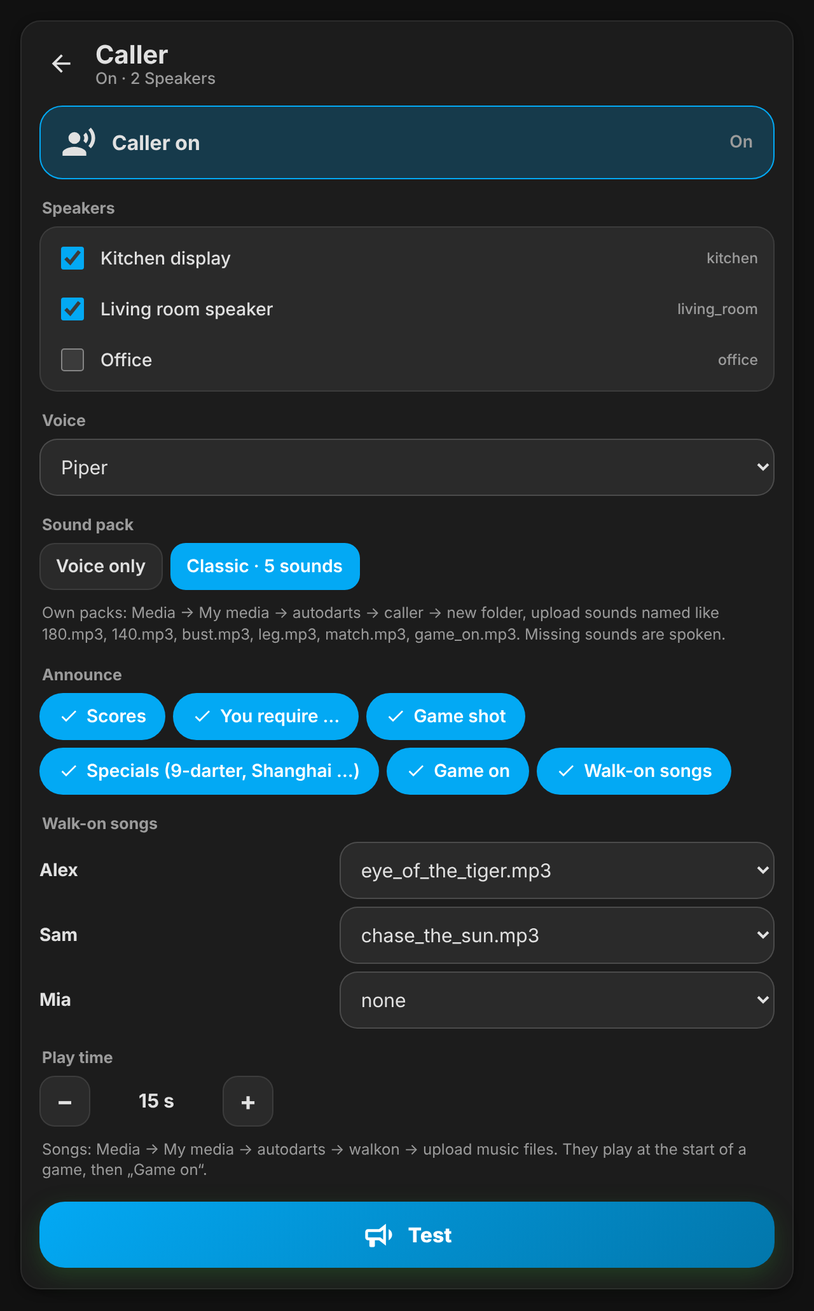
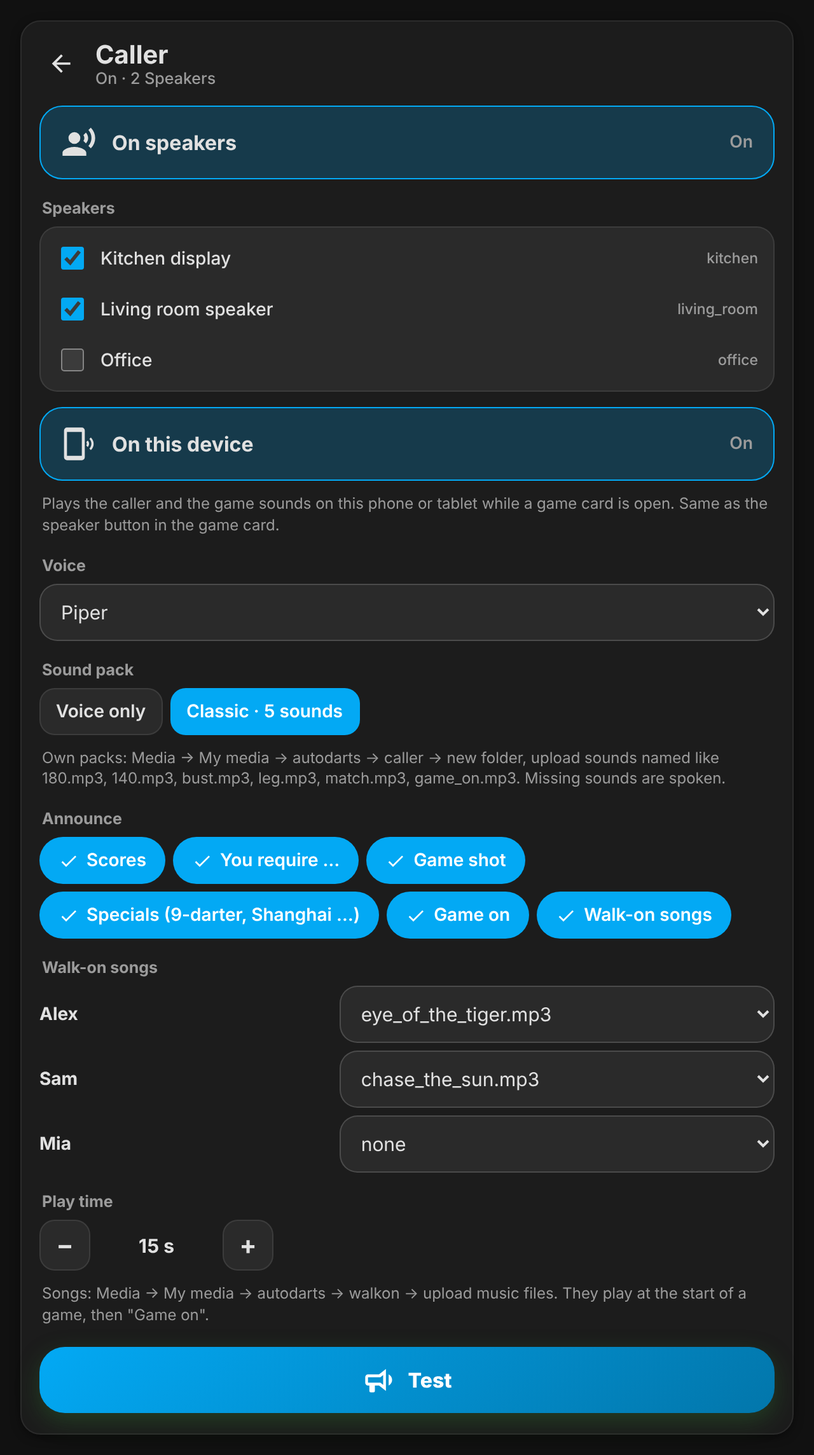
1.18.0: caller on the phone (speakers, phone or both)
Claude-Session: https://claude.ai/code/session_015s6FHMz7o3ZoDDgXQvdmwS

Changed region(s): [[0.0312, 0.031, 0.9688, 0.838], [0.0312, 0.838, 0.9375, 0.9932], [0.9375, 0.6828, 0.9688, 0.7139]]

diff --git a/custom_components/autodarts/frontend/autodarts-cards.js b/custom_components/autodarts/frontend/autodarts-cards.js
@@ -160,6 +160,9 @@
   // keypad (1.17)
   Object.assign(TEXTE.en, { kp_keys: 'Keys', kp_sum: 'Total', kp_board: 'Board', kp_cam: 'Camera', kp_miss: 'Miss', kp_sum_hint: 'points of the visit' });
   Object.assign(TEXTE.de, { kp_keys: 'Tasten', kp_sum: 'Summe', kp_board: 'Scheibe', kp_cam: 'Kamera', kp_miss: 'Daneben', kp_sum_hint: 'Punkte der Aufnahme' });
+  // caller on this device (1.18)
+  Object.assign(TEXTE.en, { caller_run: 'On speakers', phone_run: 'On this device', phone_hint: 'Plays the caller and the game sounds on this phone or tablet while a game card is open. Same as the speaker button in the game card.', d_caller: 'Announces scores, checkouts and walk-on songs on your speakers and phones' });
+  Object.assign(TEXTE.de, { caller_run: 'Über Lautsprecher', phone_run: 'Auf diesem Gerät', phone_hint: 'Spielt Ansager und Spieltöne auf diesem Handy oder Tablet, solange eine Spielkarte offen ist. Wie der Lautsprecher-Knopf in der Spielkarte.', d_caller: 'Sagt Punkte, Checkouts und Einlaufmusik über Lautsprecher und Handys an' });
   // aim map (1.16)
   Object.assign(TEXTE.en, { t_aim: 'Aim', aim_best: 'Best aim point', aim_avg: 'about Ø {n} per visit', aim_vs: 'T20 gives Ø {n} – {d} more here.', aim_t20: 'T20 is the right target for you.', aim_hint: 'Calculated from your average (Ø {a}, spread about {s} mm). Red = most points.', aim_no_avg: 'Play an X01 game first.' });
   Object.assign(TEXTE.de, { t_aim: 'Zielen', aim_best: 'Bester Zielpunkt', aim_avg: 'etwa Ø {n} pro Aufnahme', aim_vs: 'Auf T20 Ø {n} – hier {d} mehr.', aim_t20: 'T20 ist für dich das richtige Ziel.', aim_hint: 'Berechnet aus deinem Average (Ø {a}, Streuung etwa {s} mm). Rot = die meisten Punkte.', aim_no_avg: 'Spiele zuerst ein X01-Spiel.' });
@@ -1081,6 +1084,33 @@ ha-card.fx-stoss{animation:fx-stoss .45s ease-out}
   const RISS_SVG = '<svg class="riss" viewBox="0 0 100 100" preserveAspectRatio="none"><path d="M50 48 L38 40 L30 44 L18 30 M50 48 L62 36 L70 40 L84 24 M50 48 L46 62 L36 70 L30 88 M50 48 L60 60 L74 64 L86 80 M50 48 L52 30 L48 18 L54 6"/></svg>';
   // synthesized sounds (no audio files): thud of a dart, crowd cheer, buzzer
   let fxAudio = null;
+  /* caller on this phone/tablet (1.18): while a game card has its speaker button on, Home Assistant sends the
+     same announcements as to the speakers (voice, sound packs, walk-on songs) as addresses; played one after another */
+  const hoerKarten = new Set();
+  let hoerAbo = null, hoerOk = false, hoerKette = Promise.resolve(), hoerQuelle = null, hoerNr = 0;
+  const hoerStop = () => { hoerNr++; if (hoerQuelle) try { hoerQuelle.stop(); } catch (e) {} hoerQuelle = null; };
+  const hoerSpielen = (h, m) => {
+    if (m.stop) { hoerStop(); return; }
+    if (!m.url) return;
+    const nr = hoerNr, laden = fetch(h.hassUrl(m.url)).then(r => r.arrayBuffer());
+    hoerKette = hoerKette.then(() => laden).then(buf => {
+      if (nr !== hoerNr) return;
+      if (!fxAudio) { const C = window.AudioContext || window.webkitAudioContext; if (!C) return; fxAudio = new C(); }
+      return fxAudio.decodeAudioData(buf).then(b => new Promise(fertig => {
+        if (nr !== hoerNr) { fertig(); return; }
+        if (fxAudio.state === 'suspended') fxAudio.resume();
+        const q = fxAudio.createBufferSource(); q.buffer = b; q.connect(fxAudio.destination);
+        q.onended = () => { if (hoerQuelle === q) hoerQuelle = null; fertig(); };
+        hoerQuelle = q; q.start();
+      }));
+    }).catch(() => {});
+  };
+  const hoerPruefen = h => {
+    if (hoerKarten.size && !hoerAbo && h && h.connection) {
+      hoerAbo = h.connection.subscribeMessage(m => hoerSpielen(h, m), { type: 'autodarts/ansager/hoeren' })
+        .then(ab => { hoerOk = true; return ab; }, () => null);  // older integration: the phone voice speaks instead
+    } else if (!hoerKarten.size && hoerAbo) { const p = hoerAbo; hoerAbo = null; hoerOk = false; p.then(ab => ab && ab()); hoerStop(); }
+  };
   const fxKlang = art => {
     try {
       if (!fxAudio) { const C = window.AudioContext || window.webkitAudioContext; if (!C) return; fxAudio = new C(); }
@@ -1119,7 +1149,8 @@ ha-card.fx-stoss{animation:fx-stoss .45s ease-out}
         spiel: l.spiel || 'x01', variante: l.variante || '', zahlen: l.zahlen || 'classic', runden: l.runden || 0, leben: l.leben || 3
       };
     }
-    _sichtbar() { this._wach(); this._lvStrom(); }
+    _sichtbar() { this._wach(); this._lvStrom(); this._abo(); }
+    _abo() { if (this._ansage() && this.isConnected) hoerKarten.add(this); else hoerKarten.delete(this); hoerPruefen(this._h); }
     // view: camera 1–3 (index) or graphic; stored per device
     _ansichtNr() { let v = '1'; try { v = localStorage.getItem('autodarts_view') || v; } catch (e) {} return v; }
     _ansicht() { const n = this._ansichtNr(); return n === 'g' ? 'grafik' : E(this._h, KAMERA_KEYS[(+n || 2) - 1]); }
@@ -1200,8 +1231,9 @@ ha-card.fx-stoss{animation:fx-stoss .45s ease-out}
       this._ausblenden(true);
       if (!this._tasteFn) this._tasteFn = ev => this._taste(ev);
       window.addEventListener('keydown', this._tasteFn);
+      if (this._h) this._abo();
     }
-    disconnectedCallback() { this._ausblenden(false); this._lvStrom(); window.removeEventListener('keydown', this._tasteFn); }
+    disconnectedCallback() { this._ausblenden(false); this._lvStrom(); window.removeEventListener('keydown', this._tasteFn); this._abo(); }
     // keyboard input while a game runs: T20, D16, S5, 25, 50/BULL, 0/M + Enter; Enter alone = next, Backspace = undo / delete, Esc = clear
     _taste(ev) {
       if (!this._h || ev.ctrlKey || ev.metaKey || ev.altKey) return;
@@ -1274,7 +1306,7 @@ ha-card.fx-stoss{animation:fx-stoss .45s ease-out}
       if (this._zugAlt !== undefined && zug !== this._zugAlt && a.gewinner == null && a.leg_gewinner == null && !((a.aufnahme || {}).darts || []).length && wer.rest <= 170 && wer.weg && !wer.bot)
         x += (x ? '. ' : '') + t('say_need', { n: wer.name, r: wer.rest });
       this._ansId = a.ansage_id; this._zugAlt = zug;
-      if (x) this._sagen(x);
+      if (x && !hoerOk) this._sagen(x);
     }
     // ---------- effects ----------
     _fxAn() {
@@ -1744,7 +1776,7 @@ ha-card.fx-stoss{animation:fx-stoss .45s ease-out}
           this._dienst('wurf_aendern', { dart: +b.dataset.n, feld: feldAn(x, y) }); break;
         }
         case 'netz': { try { localStorage.setItem('autodarts_grid', this._netzAn() ? '0' : '1'); } catch (e) {} neu(); break; }
-        case 'ansage': { const ein = !this._ansage(); try { localStorage.setItem('autodarts_caller', ein ? '1' : '0'); } catch (e) {} if (ein && window.speechSynthesis) this._sagen(t('caller_on')); this._kxAlt = null; this._zeichnen(); break; }
+        case 'ansage': { const ein = !this._ansage(); try { localStorage.setItem('autodarts_caller', ein ? '1' : '0'); } catch (e) {} this._abo(); if (ein) this._toast(t('caller_on')); this._kxAlt = null; this._zeichnen(); break; }
         case 'vollbild':
           if (document.fullscreenElement) document.exitFullscreen(); else if (this.requestFullscreen) this.requestFullscreen().catch(() => {});
           setTimeout(() => { this._kxAlt = null; this._zeichnen(); }, 300); break;
@@ -2253,7 +2285,12 @@ ha-card.fx-stoss{animation:fx-stoss .45s ease-out}
   class AutodartsCallerCard extends DartsSeite {
     static get CSS() { return LICHT_CSS + '.schalter{display:flex;align-items:center;gap:12px;border-radius:18px;padding:14px 16px;width:100%;font:inherit;font-size:16px;font-weight:700;color:inherit;cursor:pointer}.schalter ha-icon{--mdc-icon-size:28px}.schalter.an{background:color-mix(in srgb,var(--primary-color) 22%,transparent);border-color:var(--primary-color)}.schalter small{margin-left:auto;font-weight:600;color:var(--secondary-text-color)}.chips{display:flex;flex-wrap:wrap;gap:6px}.wl{display:flex;align-items:center;gap:10px;margin:6px 0}.wl b{flex:1;min-width:0;font-size:14px}.wl select{width:auto;flex:1.4;min-width:0}.lb{display:block;font-size:12.5px;font-weight:700;color:var(--secondary-text-color);margin:16px 2px 6px}.inhalt select{width:100%;font:inherit;font-size:15px;padding:11px 12px;border-radius:14px;color:var(--primary-text-color);background:color-mix(in srgb,var(--primary-text-color) 7%,transparent);border:1px solid color-mix(in srgb,var(--primary-text-color) 18%,transparent)}.inhalt select option{color:#000}'; }
     getCardSize() { return 8; }
+    _ansage() { try { return localStorage.getItem('autodarts_caller') === '1'; } catch (e) { return false; } }
+    _abo() { if (this._ansage() && this.isConnected) hoerKarten.add(this); else hoerKarten.delete(this); hoerPruefen(this._h); }
+    connectedCallback() { if (this._h) this._abo(); }
+    disconnectedCallback() { this._abo(); }
     async _laden() {
+      this._abo();
       try { this._daten = await this._h.callWS({ type: 'autodarts/ansager' }); } catch (e) { this._daten = { einstellungen: {}, stimmen: [], packs: {}, songs: [] }; }
       this._alt = null; this._zeichnen();
     }
@@ -2271,6 +2308,8 @@ ha-card.fx-stoss{animation:fx-stoss .45s ease-out}
       let s = '<button class="schalter feld' + (an ? ' an' : '') + '" data-act="aktiv"><ha-icon icon="' + (an ? 'mdi:account-voice' : 'mdi:account-voice-off') + '"></ha-icon>' + t('caller_run') + '<small>' + (an ? t('caller_on_hint') : t('caller_off_hint')) + '</small></button>';
       s += '<label class="lb">' + t('speakers') + '</label><div class="ll feld">' + lp.map(id => '<label><input type="checkbox" data-lp="' + id + '"' + (e.lautsprecher.includes(id) ? ' checked' : '') + '>' + esc(this._name(id)) + '<small>' + id.slice(13) + '</small></label>').join('') + '</div>';
       if (an && !e.lautsprecher.length) s += '<div class="klein" style="color:var(--red-color,#e53935)">' + t('no_speakers') + '</div>';
+      const hier = this._ansage();
+      s += '<button class="schalter feld' + (hier ? ' an' : '') + '" data-act="hier" style="margin-top:12px"><ha-icon icon="' + (hier ? 'mdi:cellphone-sound' : 'mdi:cellphone-off') + '"></ha-icon>' + t('phone_run') + '<small>' + (hier ? t('caller_on_hint') : t('caller_off_hint')) + '</small></button><div class="klein">' + t('phone_hint') + '</div>';
       s += '<label class="lb">' + t('voice') + '</label>' + (stimmen.length ? '<select data-f="stimme"><option value="">' + esc(this._name(stimmen[0])) + ' (auto)</option>' + stimmen.map(x => '<option value="' + x + '"' + (x === e.stimme ? ' selected' : '') + '>' + esc(this._name(x)) + '</option>').join('') + '</select>' : '<div class="klein">' + t('no_voice') + '</div>');
       s += '<label class="lb">' + t('pack') + '</label><div class="seg">' + [['', t('only_voice')]].concat(Object.keys(packs).map(k => [k, k + ' · ' + t('n_files', { n: packs[k].length })])).map(([k, n]) => '<button class="feld' + (k === e.pack ? ' an' : '') + '" data-act="pack" data-v="' + esc(k) + '">' + esc(n) + '</button>').join('') + '</div><div class="klein">' + t('pack_hint') + '</div>';
       s += '<label class="lb">' + t('say_what') + '</label><div class="chips">' + ANSAGE_ARTEN.map(k => '<button class="chip feld' + (e[k] ? ' an' : '') + '" data-act="art" data-v="' + k + '"><ha-icon icon="' + (e[k] ? 'mdi:check' : 'mdi:close') + '" style="--mdc-icon-size:16px"></ha-icon>' + t('c_' + k) + '</button>').join('') + '</div>';
@@ -2281,7 +2320,7 @@ ha-card.fx-stoss{animation:fx-stoss .45s ease-out}
         else s += spieler.map(p => '<div class="wl"><b>' + esc(p.name) + '</b><select data-song="' + esc(p.id) + '"><option value="">' + t('no_song') + '</option>' + songs.map(x => '<option' + (e.songs[p.id] === x ? ' selected' : '') + '>' + esc(x) + '</option>').join('') + '</select></div>').join('');
         s += '<label class="lb">' + t('walk_secs') + '</label><div class="stepper"><button class="feld" data-act="sek" data-v="-5">−</button><b>' + t('seconds', { n: e.walkon_sekunden }) + '</b><button class="feld" data-act="sek" data-v="5">+</button></div><div class="klein">' + t('songs_hint') + '</div>';
       }
-      s += '<button class="start" style="background:linear-gradient(135deg,var(--primary-color),color-mix(in srgb,var(--primary-color) 70%,#000));min-height:52px;font-size:16px;margin:16px 0 0"' + (e.lautsprecher.length ? '' : ' disabled') + ' data-act="test"><ha-icon icon="mdi:bullhorn-outline"></ha-icon>' + t('test_caller') + '</button>';
+      s += '<button class="start" style="background:linear-gradient(135deg,var(--primary-color),color-mix(in srgb,var(--primary-color) 70%,#000));min-height:52px;font-size:16px;margin:16px 0 0"' + (e.lautsprecher.length || hier ? '' : ' disabled') + ' data-act="test"><ha-icon icon="mdi:bullhorn-outline"></ha-icon>' + t('test_caller') + '</button>';
       this._setze(s);
       this._in.querySelectorAll('[data-lp]').forEach(c => c.onchange = () => { const x = this._e(); x.lautsprecher = c.checked ? x.lautsprecher.concat(c.dataset.lp) : x.lautsprecher.filter(y => y !== c.dataset.lp); this._speichern(x); });
       this._in.querySelectorAll('[data-f=stimme]').forEach(c => c.onchange = () => { const x = this._e(); x.stimme = c.value; this._speichern(x); });
@@ -2297,7 +2336,8 @@ ha-card.fx-stoss{animation:fx-stoss .45s ease-out}
       else if (act === 'pack') { x.pack = b.dataset.v; this._speichern(x); }
       else if (act === 'art') { x[b.dataset.v] = !x[b.dataset.v]; this._speichern(x); }
       else if (act === 'sek') { x.walkon_sekunden = Math.max(5, Math.min(60, x.walkon_sekunden + +b.dataset.v)); this._speichern(x); }
-      else if (act === 'test') this._h.callService('autodarts', 'ansager_testen', {});
+      else if (act === 'hier') { try { localStorage.setItem('autodarts_caller', this._ansage() ? '0' : '1'); } catch (e) {} fxKlang(''); this._abo(); this._alt = null; this._zeichnen(); }
+      else if (act === 'test') { fxKlang(''); this._h.callService('autodarts', 'ansager_testen', {}); }
     }
   }
   customElements.define('autodarts-caller-card', AutodartsCallerCard);

diff --git a/custom_components/autodarts/ansager.py b/custom_components/autodarts/ansager.py
@@ -5,6 +5,9 @@ autodarts.ansager and edited in the caller card. Sound packs are folders in the 
 folder autodarts/caller/<pack> with files like 180.mp3, bust.mp3, leg.mp3; whatever a pack
 does not have is spoken by the chosen voice (TTS). Walk-on songs are files in
 autodarts/walkon.
+
+Phones and tablets get the same announcements: the game card subscribes with its speaker
+button (websocket autodarts/ansager/hoeren) and plays the URLs it is sent.
 """
 
 from __future__ import annotations
@@ -101,6 +104,17 @@ class Ansager:
         self._pack: dict[str, str] = {}
         self._aufgaben: set[asyncio.Task[None]] = set()
         self._einlauf: asyncio.Task[None] | None = None
+        self._hoerer: set[Callable[[dict[str, Any]], None]] = set()
+
+    @callback
+    def hoeren(self, senden: Callable[[dict[str, Any]], None]) -> Callable[[], None]:
+        """A phone or tablet that plays the announcements itself; returns the function to stop."""
+        self._hoerer.add(senden)
+        return lambda: self._hoerer.discard(senden)
+
+    @property
+    def _boxen(self) -> bool:
+        return bool(self.einst["aktiv"] and self.einst["lautsprecher"])
 
     @property
     def _basis(self) -> Path:
@@ -138,7 +152,7 @@ class Ansager:
     @callback
     def ereignis(self, typ: str, daten: dict[str, Any]) -> None:
         """Game event from the game manager; events of one visit come together and give one announcement."""
-        if not self.einst["aktiv"] or not self.einst["lautsprecher"]:
+        if not self._boxen and not self._hoerer:
             return
         if typ == "game_started":
             if self._einlauf:
@@ -208,7 +222,9 @@ class Ansager:
                     await asyncio.sleep(3)
                     await self._spielen(self._url(SONG_ORDNER, song), ansage=False)
                     await asyncio.sleep(self.einst["walkon_sekunden"])
-                    await self._dienst("media_player", "media_stop", {"entity_id": self.einst["lautsprecher"]})
+                    if self._boxen:
+                        await self._dienst("media_player", "media_stop", {"entity_id": self.einst["lautsprecher"]})
+                    self._melden({"stop": True})
             if self.einst["game_on"]:
                 await self._sagen("game_on", self._t()["game_on"])
         except asyncio.CancelledError:
@@ -243,14 +259,23 @@ class Ansager:
             if not stimme:
                 _LOGGER.warning("Caller: no voice (TTS) available")
                 return
-            await self._dienst("tts", "speak", {"entity_id": stimme, "media_player_entity_id": self.einst["lautsprecher"],
-                                                "message": text, "cache": True})
+            if self._boxen:
+                await self._dienst("tts", "speak", {"entity_id": stimme, "media_player_entity_id": self.einst["lautsprecher"],
+                                                    "message": text, "cache": True})
+            if self._hoerer:
+                from homeassistant.components.tts import generate_media_source_id
+
+                await self._handy(generate_media_source_id(self.hass, text, engine=stimme, cache=True))
         except asyncio.CancelledError:
             raise
         except Exception:
             _LOGGER.warning("Caller could not play %s", schluessel or text, exc_info=True)
 
     async def _spielen(self, url: str, ansage: bool = True) -> None:
+        if self._hoerer:
+            await self._handy(url)
+        if not self._boxen:
+            return
         mit: list[str] = []
         ohne: list[str] = []
         for e in self.einst["lautsprecher"]:
@@ -260,6 +285,19 @@ class Ansager:
             if liste:
                 await self._dienst("media_player", "play_media", {"entity_id": liste, "media_content_id": url,
                                                                   "media_content_type": "music", **extra})
+
+    async def _handy(self, media_id: str) -> None:
+        """Send a playable address (TTS or media file) to the phones and tablets that listen."""
+        from homeassistant.components import media_source
+        from homeassistant.components.media_player.browse_media import async_process_play_media_url
+
+        item = await media_source.async_resolve_media(self.hass, media_id, None)
+        self._melden({"url": async_process_play_media_url(self.hass, item.url, allow_relative_url=True)})
+
+    @callback
+    def _melden(self, daten: dict[str, Any]) -> None:
+        for senden in list(self._hoerer):
+            senden(daten)
 
     async def _dienst(self, domain: str, name: str, daten: dict[str, Any]) -> None:
         await self.hass.services.async_call(domain, name, daten, blocking=True)

diff --git a/tests/test_ansager.py b/tests/test_ansager.py
@@ -5,6 +5,7 @@ from __future__ import annotations
 import asyncio
 from unittest.mock import patch
 
+from homeassistant.components import media_source, tts  # noqa: F401  (loaded for patching)
 from homeassistant.core import HomeAssistant
 from homeassistant.exceptions import ServiceValidationError
 import pytest
@@ -153,3 +154,46 @@ _echt = asyncio.sleep
 
 async def _null(sekunden: float) -> None:
     await _echt(0)
+
+
+async def test_handy_hoert_mit(hass: HomeAssistant, geladen, lautsprecher, hass_ws_client) -> None:
+    """The game card on a phone gets every announcement as an address, also without speakers."""
+    a = geladen.runtime_data.ansager
+    ws = await hass_ws_client(hass)
+    await ws.send_json({"id": 7, "type": "autodarts/ansager/hoeren"})
+    assert (await ws.receive_json())["success"]
+
+    class Item:
+        def __init__(self, url: str) -> None:
+            self.url = url
+
+    async def aufloesen(_hass, media_id, _ziel):
+        return Item("/api/tts_proxy/x.mp3" if media_id.startswith("tts:") else "/media/local/" + media_id.rsplit("local/", 1)[1])
+
+    stand = {"art": "x01", "gewinner": 0, "spieler": []}
+    with (patch.object(geladen.runtime_data.spiel, "stand", stand),
+          patch("homeassistant.components.tts.generate_media_source_id", return_value="tts:140") as tts_id,
+          patch("homeassistant.components.media_source.async_resolve_media", side_effect=aufloesen)):
+        a.ereignis("visit", {"player": "Anna", "score": 140})
+        await _fertig(hass, a)
+        assert (await ws.receive_json())["event"] == {"url": "/api/tts_proxy/x.mp3"}
+        assert tts_id.call_args.kwargs["engine"] == "tts.piper"
+        assert not lautsprecher["tts"]  # caller switched off for the speakers
+        await _setzen(hass, songs={"a1": "tiger.mp3"}, walkon_sekunden=5)
+        with patch.object(ansager_modul.asyncio, "sleep", side_effect=_null):
+            a.ereignis("game_started", {"players": ["Anna"], "player_ids": ["a1"]})
+            await _fertig(hass, a)
+    events = [(await ws.receive_json())["event"] for _ in range(4)]
+    assert events[1]["url"].startswith("/media/local/autodarts/walkon/tiger.mp3?authSig=")
+    assert events[2] == {"stop": True}
+    assert lautsprecher["tts"] and lautsprecher["stop"]  # speakers too
+    await ws.send_json({"id": 8, "type": "unsubscribe_events", "subscription": 7})
+    await ws.receive_json()
+    assert not a._hoerer
+
+
+async def test_handy_ohne_eintrag(hass: HomeAssistant, geladen, hass_ws_client) -> None:
+    await hass.config_entries.async_unload(geladen.entry_id)
+    ws = await hass_ws_client(hass)
+    await ws.send_json({"id": 1, "type": "autodarts/ansager/hoeren"})
+    assert not (await ws.receive_json())["success"]

diff --git a/custom_components/autodarts/services.py b/custom_components/autodarts/services.py
@@ -7,6 +7,7 @@ from typing import Any
 from homeassistant.components.websocket_api import async_register_command
 from homeassistant.components.websocket_api.connection import ActiveConnection
 from homeassistant.components.websocket_api.decorators import async_response, websocket_command
+from homeassistant.components.websocket_api.messages import event_message
 from homeassistant.core import HomeAssistant, ServiceCall, ServiceResponse, SupportsResponse, callback
 from homeassistant.exceptions import ServiceValidationError
 from homeassistant.helpers import config_validation as cv
@@ -114,6 +115,23 @@ async def ws_ansager(hass: HomeAssistant, connection: ActiveConnection, msg: dic
     connection.send_result(msg["id"], await eintraege[0].runtime_data.ansager.uebersicht())
 
 
+@websocket_command({vol.Required("type"): "autodarts/ansager/hoeren"})
+@callback
+def ws_ansager_hoeren(hass: HomeAssistant, connection: ActiveConnection, msg: dict[str, Any]) -> None:
+    """The game card plays the caller on this phone or tablet: sends {"url"} or {"stop"} per announcement."""
+    eintraege = hass.config_entries.async_loaded_entries(DOMAIN)
+    if not eintraege:
+        connection.send_error(msg["id"], "not_loaded", "Autodarts is not set up")
+        return
+
+    @callback
+    def senden(daten: dict[str, Any]) -> None:
+        connection.send_message(event_message(msg["id"], daten))
+
+    connection.subscriptions[msg["id"]] = eintraege[0].runtime_data.ansager.hoeren(senden)
+    connection.send_result(msg["id"])
+
+
 async def _ansager(hass: HomeAssistant, name: str, d: dict[str, Any]) -> None:
     ansager = _eintrag(hass).runtime_data.ansager
     if name == "ansager_testen":
@@ -131,6 +149,7 @@ def async_setup_services(hass: HomeAssistant) -> None:
     """Register all actions of the integration."""
     async_register_command(hass, ws_lichteffekte)
     async_register_command(hass, ws_ansager)
+    async_register_command(hass, ws_ansager_hoeren)
 
     async def ausfuehren(call: ServiceCall) -> ServiceResponse:
         s = _leiter(hass)

diff --git a/README.md b/README.md
@@ -60,7 +60,7 @@
 | 🎯 **Cricket, training and party games** | Cricket (standard, cut-throat, no score; 15–20, 10–20, random), Around the Clock, Bob's 27, doubles, 121 checkout, highscore, Shanghai, Killer, Halve-It, Golf, Baseball – with rule text, target on the board and bots. |
 | ✏ **Correct anything** | Undo, add, change or delete any dart of any visit – the whole score is recalculated automatically. |
 | 🏟 **Tournament** | Knockout for 3–32 players with bracket, byes, next-match button and champion celebration – or a league for 3–10 players with table. |
-| 📣 **Caller** | Scores, "you require …", game shot, 180 and walk-on songs per player on your speakers – own sound packs by upload, missing sounds are spoken. |
+| 📣 **Caller** | Scores, "you require …", game shot, 180 and walk-on songs per player on your speakers, on your phone or both – own sound packs by upload, missing sounds are spoken. |
 | 📊 **Statistics** | Per player: average, first 9, checkout rate, highest score/finish, best leg, 180s, rating (Elo), hit map, **aim map** (best aim point for your average), trend, badges, streak, head to head, CSV export. |
 | ✨ **Effects** | Realistic one-shot animations for 180, bust, checkout, nine-darter, Shanghai, champion … switchable per device. |
 | 💡 **Light effects** | 18 effects – blink, flash, pulse, heartbeat, strobe, fade out, two colours, rainbow, rainbow wave, confetti, chaser, sparkle, police, fire, thunderstorm, WLED effects and presets – on a 180, bust, checkout, leg won … – set up by click in a card, lights return to how they were. |
@@ -153,7 +153,7 @@ The game card is made for a tablet next to the board (full screen button include
 - the board as graphic **or as straightened live camera image** (tap the board to switch camera 1/2/3/graphic, "Grid" shows the calibration grid)
 - visit history – tap any visit to correct it
 - live statistics and the result screen with rematch
-- optional **caller**: announces scores, "One hundred and eighty!", checkouts and what you require (browser speech, English or German)
+- optional **caller**: announces scores, "One hundred and eighty!", checkouts and what you require (the caller of Home Assistant with its voice and sound pack; the browser voice only as a fallback)
 - keeps the screen awake during a game
 - **effects** for what happens at a real board: dart flight with wobble, sparks on trebles and doubles, bull flash, "MISS" falling off, board jolt; big scenes for 180 (spotlights, shockwave, confetti), ton-forty, ton, three in a bed, bed & breakfast, no score (tumbleweed), bust (cracks and stamp), game shot, high finish, 170 "big fish", set, match (fireworks and trophy) and the nine-darter (rainbow). Sounds play only while the caller is on. The ✨ button switches effects off per device; they respect "reduce motion" and stop while the card is hidden.
 
@@ -335,7 +335,12 @@ The lobby offers **Single game**, **Knockout** and **League**. Knockout is for 3
 
 ### Caller
 
-Open **Autodarts → Caller**, switch it on and tick one or more speakers. It announces in Home Assistant itself, also with no dashboard open:
+Open **Autodarts → Caller** and choose where it plays – freely combined:
+
+- **On speakers**: switch it on and tick one or more speakers. It announces in Home Assistant itself, also with no dashboard open.
+- **On this device**: plays the same announcements (voice, sound pack, walk-on songs) and the game sounds on the phone or tablet you are holding, while a game card is open. The speaker button at the top of the game card switches the same thing. Set per device.
+
+What it announces:
 
 - **Scores** of every X01 visit, **"you require …"** when the next player can check out, **game shot** for leg, set and match, **specials** (nine-darter, Shanghai, Killer, tournament win) and **"Game on"**.
 - **Voice**: any text-to-speech of Home Assistant (e.g. Piper or Google Translate, Settings → Voice assistants).
@@ -599,7 +604,7 @@ Private project, no outside contributions. The code follows the rules of the Hom
 - Eingabe ohne Kameras: Tastenfeld erscheint von selbst, wenn das Board offline ist (Double/Triple + Zahl oder Summe der Aufnahme), dazu Scheibe antippen oder Tastatur (T20 + Enter)
 - Sprachbefehle für Assist auf Deutsch, Englisch und Russisch (Stand, Rangliste, Spiel starten, Rückgängig …)
 - Turnier: K.-o. für 3–32 Spieler mit Turnierbaum, Freilosen und Siegerfeier, oder Liga für 3–10 Spieler mit Tabelle
-- Ansager über die Lautsprecher: Punkte, „du brauchst …“, Game shot, Besonderes und Einlaufmusik je Spieler; eigene Sound-Packs per Hochladen (Medien → autodarts → caller), was fehlt, spricht die Stimme
+- Ansager über Lautsprecher, aufs Handy oder beides: Punkte, „du brauchst …“, Game shot, Besonderes und Einlaufmusik je Spieler; eigene Sound-Packs per Hochladen (Medien → autodarts → caller), was fehlt, spricht die Stimme
 - Punkte per Sprache: „Alex hat 140“, „Darts 60“
 - Spielerseite mit Wertung (Elo), Serie, Trefferbild, Zielhilfe (bester Zielpunkt für den eigenen Average), Trend, Abzeichen (Bronze/Silber/Gold), direktem Vergleich, Rangliste und CSV-Export
 - Code nach den Regeln der Home-Assistant-Quality-Scale; die Board-Verbindung steckt direkt in der Integration (`board.py`), nichts muss nachinstalliert werden

diff --git a/CHANGELOG.md b/CHANGELOG.md
@@ -3,6 +3,13 @@
 Each version lists the changes in English and German. The release notes on GitHub
 and in the Home Assistant update dialog are taken from this file automatically.
 
+## 1.18.0
+
+- **Caller on the phone**: the speaker button in the game card (and the new switch "On this device" in the caller card) plays the caller on this phone or tablet – same voice, sound pack and walk-on songs as on the speakers. Speakers, phone or both, freely combined. Before, the phone used the browser voice, which many phones (e.g. the Android app) do not have.
+
+**Deutsch**
+- **Ansager aufs Handy**: Der Lautsprecher-Knopf in der Spielkarte (und der neue Schalter „Auf diesem Gerät“ in der Ansager-Karte) spielt den Ansager auf diesem Handy oder Tablet – gleiche Stimme, gleiches Sound-Pack und Einlaufmusik wie auf den Lautsprechern. Lautsprecher, Handy oder beides, frei kombinierbar. Vorher nutzte das Handy die Browser-Stimme, die viele Handys (z. B. die Android-App) nicht haben.
+
 ## 1.17.0
 
 - **Keypad** in the game card: while the board is offline a keypad replaces the drawn board by itself (Double/Triple + 1–20, 25, Bull, Miss); for X01 also **Total** for the whole visit. When the board is back online the camera returns. Keys, Total, Board and Camera can be switched above the keypad.
